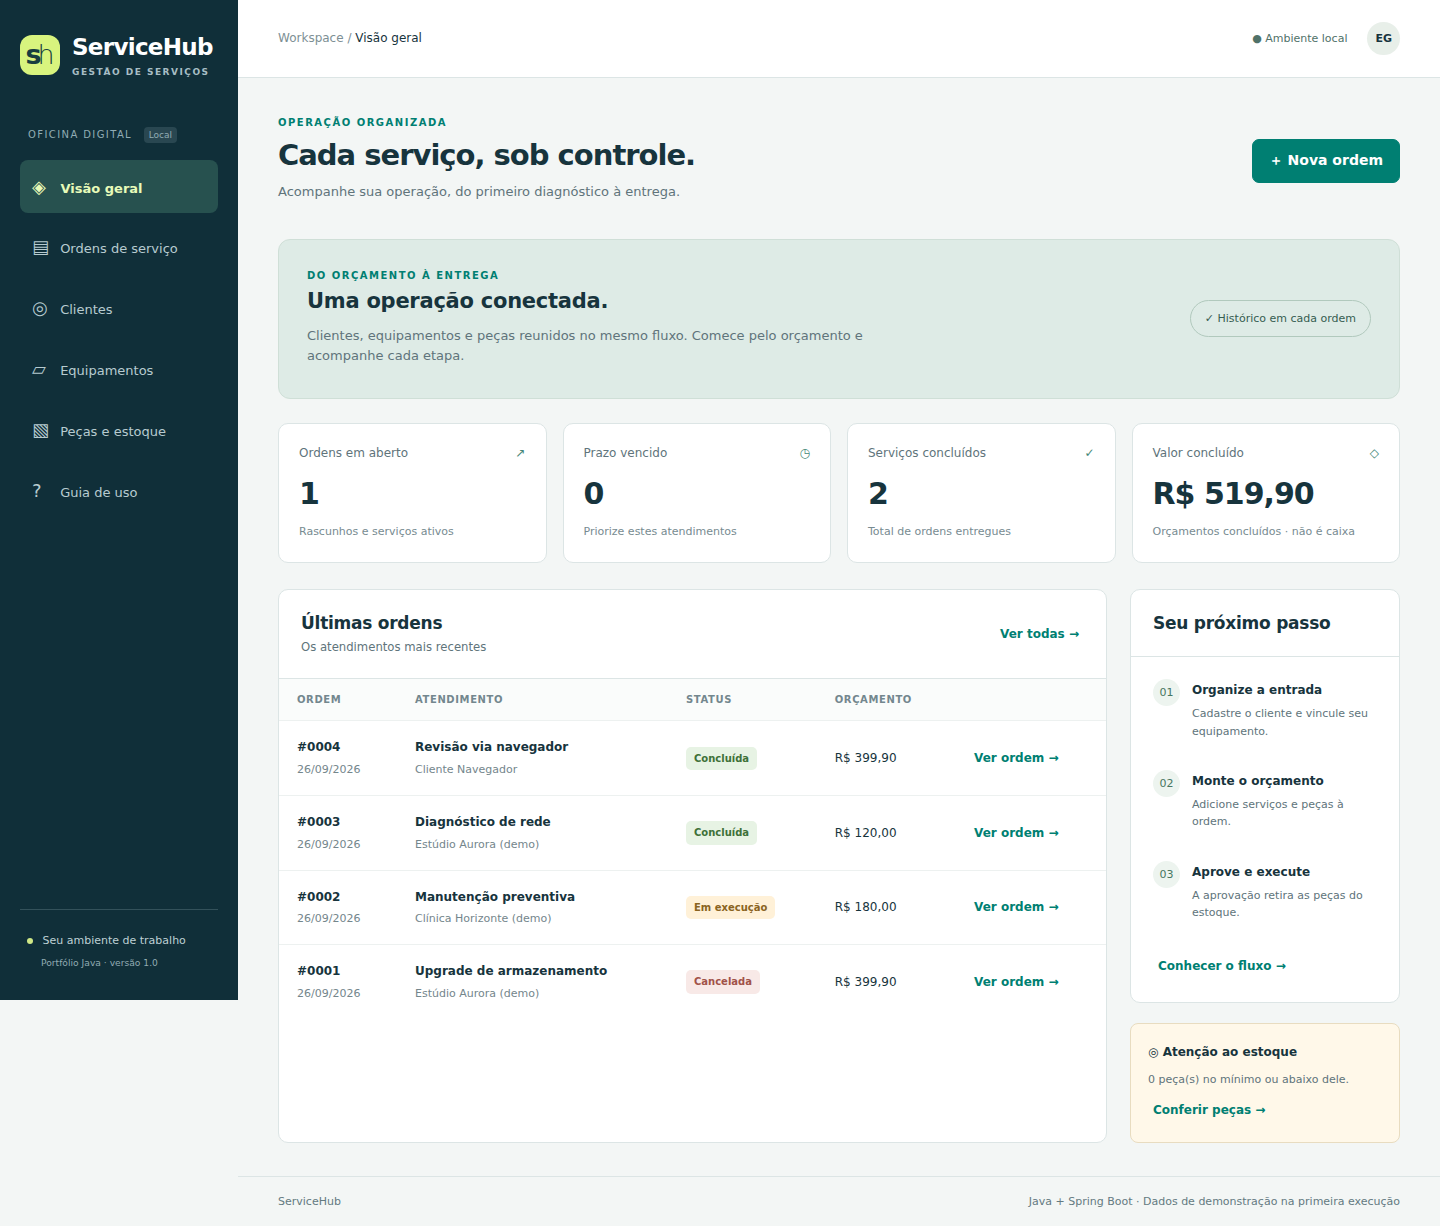
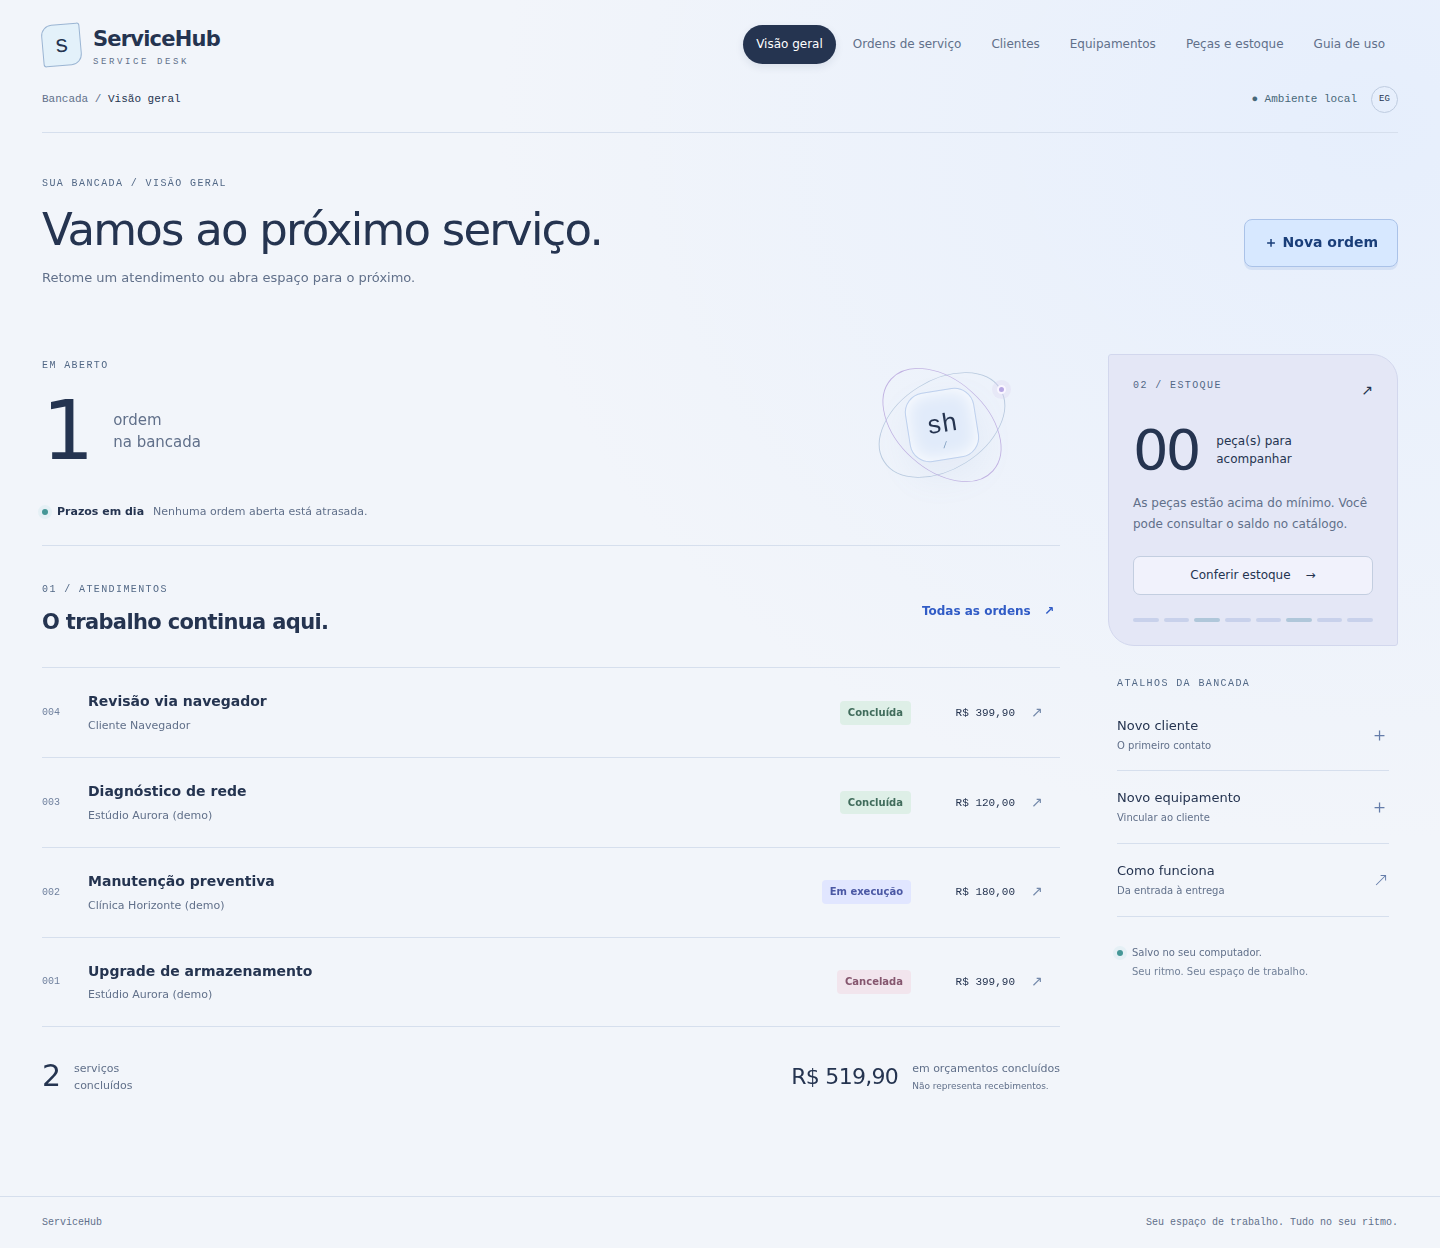
docs: publish verified light cyber interface screenshots and upgrade guide

diff --git a/docs/VALIDACAO.md b/docs/VALIDACAO.md
@@ -21,3 +21,7 @@ Correções encontradas durante a validação: acesso ao JDBC pelo proxy Spring,
 Scripts Windows revisados, sem execução nativa em Windows neste ambiente. Testes de navegador usam Chromium; não há certificação para Safari/Firefox. Não foi feita auditoria externa de segurança ou acessibilidade. A aplicação é local e não possui autenticação.
 
 Implementação, validação e autorrevisão realizadas pelo mesmo executor; não houve revisão independente.
+
+## Redesign 1.1 — 26/09/2026 (Brasil)
+
+[CI 36285523848](https://github.com/Gmerick/java-servicehub/actions/runs/36285523848), commit `18acc06d0fcc6b388812d50a35152141eac84fb3`: 14 testes Java, persistência, 8 cenários de navegador e pacote aprovados. As novas capturas desktop e celular foram inspecionadas. O cenário adicional verifica atalhos e a desativação de animações com `prefers-reduced-motion`. O desenho do banco e as regras da API não foram alterados.

diff --git a/README.md b/README.md
@@ -80,3 +80,7 @@ scripts/                                  Inicialização e distribuição
 ```
 
 Licença MIT. Projeto desenvolvido com apoio de IA; o roteiro de estudo orienta a revisão do código e a explicação das decisões técnicas.
+
+## Visual 1.1
+
+Bancada com navegação horizontal, atendimentos em linhas abertas e estoque em uma coluna assimétrica. Azul gelo, lilás e ciano em superfícies leves; transições de tela e modal, respostas ao cursor e um detalhe orbital animado. A preferência de movimento reduzido do sistema desativa as animações. Veja as instruções de atualização preservando a pasta `data` em [Como usar](docs/COMO-USAR.md).
